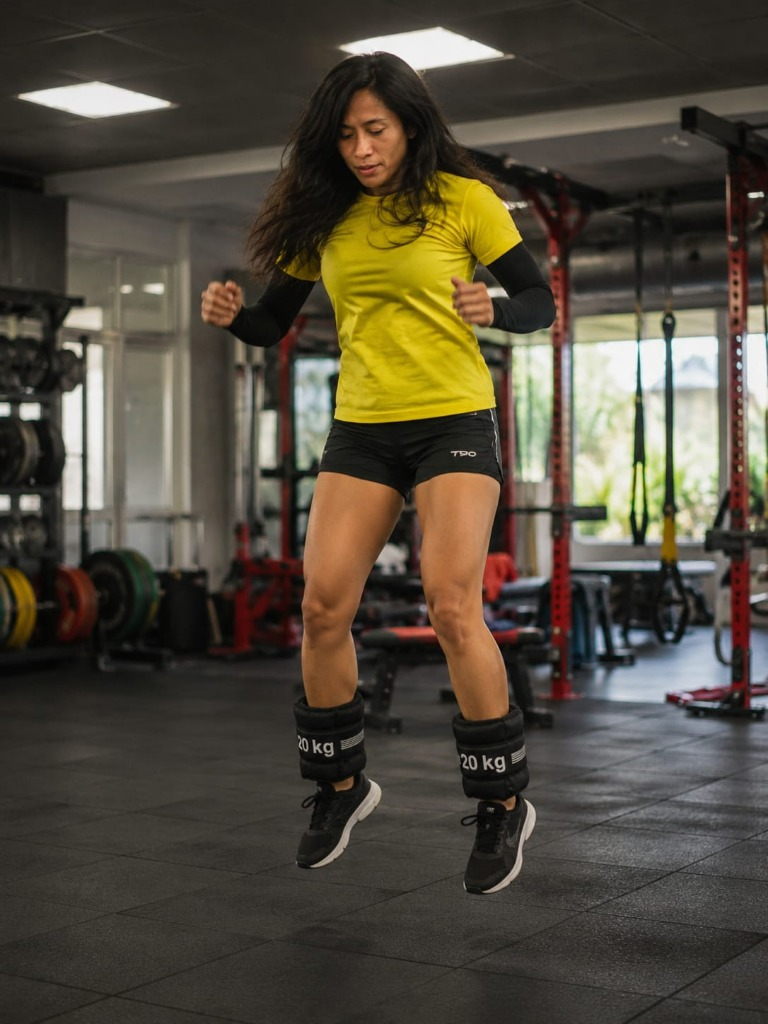
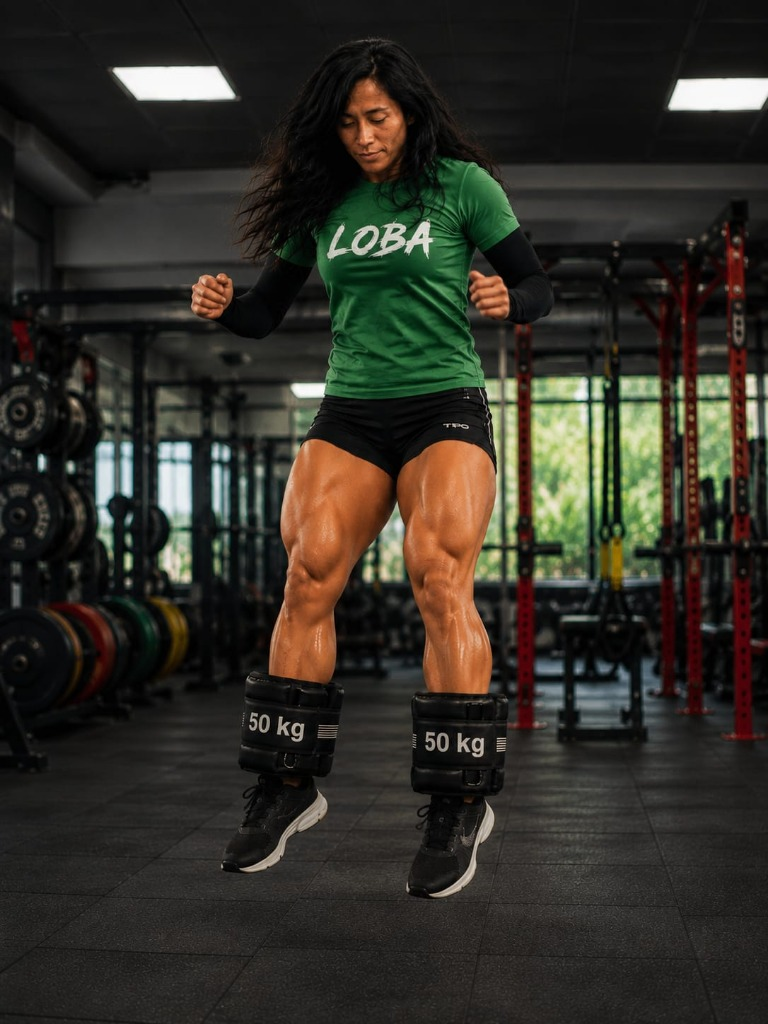
fix: atualiza foto da Ori e muda cor do Nerso para amarelo

diff --git a/index.html b/index.html
@@ -266,11 +266,11 @@
                     <div id="frog-jump-results" style="margin-bottom: 25px;">
                         <div style="display: flex; justify-content: space-between; margin-bottom: 5px; font-weight: bold;">
                             <span style="color: #4CAF50;">Ori: <span id="frog-ori-percent">50%</span> (<span id="frog-ori-votes">0</span>)</span>
-                            <span style="color: #2196F3;">Nerso: <span id="frog-nerso-percent">50%</span> (<span id="frog-nerso-votes">0</span>)</span>
+                            <span style="color: #FFC107;">Nerso: <span id="frog-nerso-percent">50%</span> (<span id="frog-nerso-votes">0</span>)</span>
                         </div>
                         <div style="width: 100%; height: 24px; background: #333; border-radius: 12px; overflow: hidden; display: flex;">
                             <div id="frog-ori-bar" style="height: 100%; width: 50%; background: linear-gradient(90deg, #4CAF50, #81C784); transition: width 0.5s ease;"></div>
-                            <div id="frog-nerso-bar" style="height: 100%; width: 50%; background: linear-gradient(90deg, #64B5F6, #2196F3); transition: width 0.5s ease;"></div>
+                            <div id="frog-nerso-bar" style="height: 100%; width: 50%; background: linear-gradient(90deg, #FFD54F, #FFC107); transition: width 0.5s ease;"></div>
                         </div>
                     </div>
 
@@ -295,7 +295,7 @@
                             <img src="img/nelsinho.jpg" alt="Nerso" style="width: 100%; aspect-ratio: 4/5; object-fit: cover; object-position: top; display: block;">
                             <div style="padding: 15px;">
                                 <h3 style="margin-bottom: 15px; font-size: 1.1rem;">Nerso</h3>
-                                <button class="btn btn-primary btn-large" onclick="window.submitFrogJumpVote('nerso')" id="btn-vote-nerso" style="width: 100%; padding: 18px 10px; font-size: 1.2rem; background: linear-gradient(to right, #2196F3, #64B5F6);">
+                                <button class="btn btn-primary btn-large" onclick="window.submitFrogJumpVote('nerso')" id="btn-vote-nerso" style="width: 100%; padding: 18px 10px; font-size: 1.2rem; background: linear-gradient(to right, #FFC107, #FFD54F); color: #000;">
                                     <i class="fa-solid fa-vote-yea"></i> Votar
                                 </button>
                             </div>
@@ -329,6 +329,6 @@
     <div id="toast" class="toast">Mensagem de aviso</div>
 
     <!-- Scripts -->
-    <script src="app-v2.js?v=2.0.1"></script>
+    <script src="app-v2.js?v=2.0.2"></script>
 </body>
 </html>

diff --git a/app-v2.js b/app-v2.js
@@ -117,10 +117,13 @@ function renderFrogJumpResults() {
         // Reset styles first
         btnOri.disabled = false;
         btnOri.style.opacity = '1';
+        btnOri.style.background = '';
         btnOri.innerHTML = '<i class="fa-solid fa-vote-yea"></i> Votar';
         
         btnNerso.disabled = false;
         btnNerso.style.opacity = '1';
+        btnNerso.style.background = '';
+        btnNerso.style.color = '';
         btnNerso.innerHTML = '<i class="fa-solid fa-vote-yea"></i> Votar';
         
         if (isClosed) {